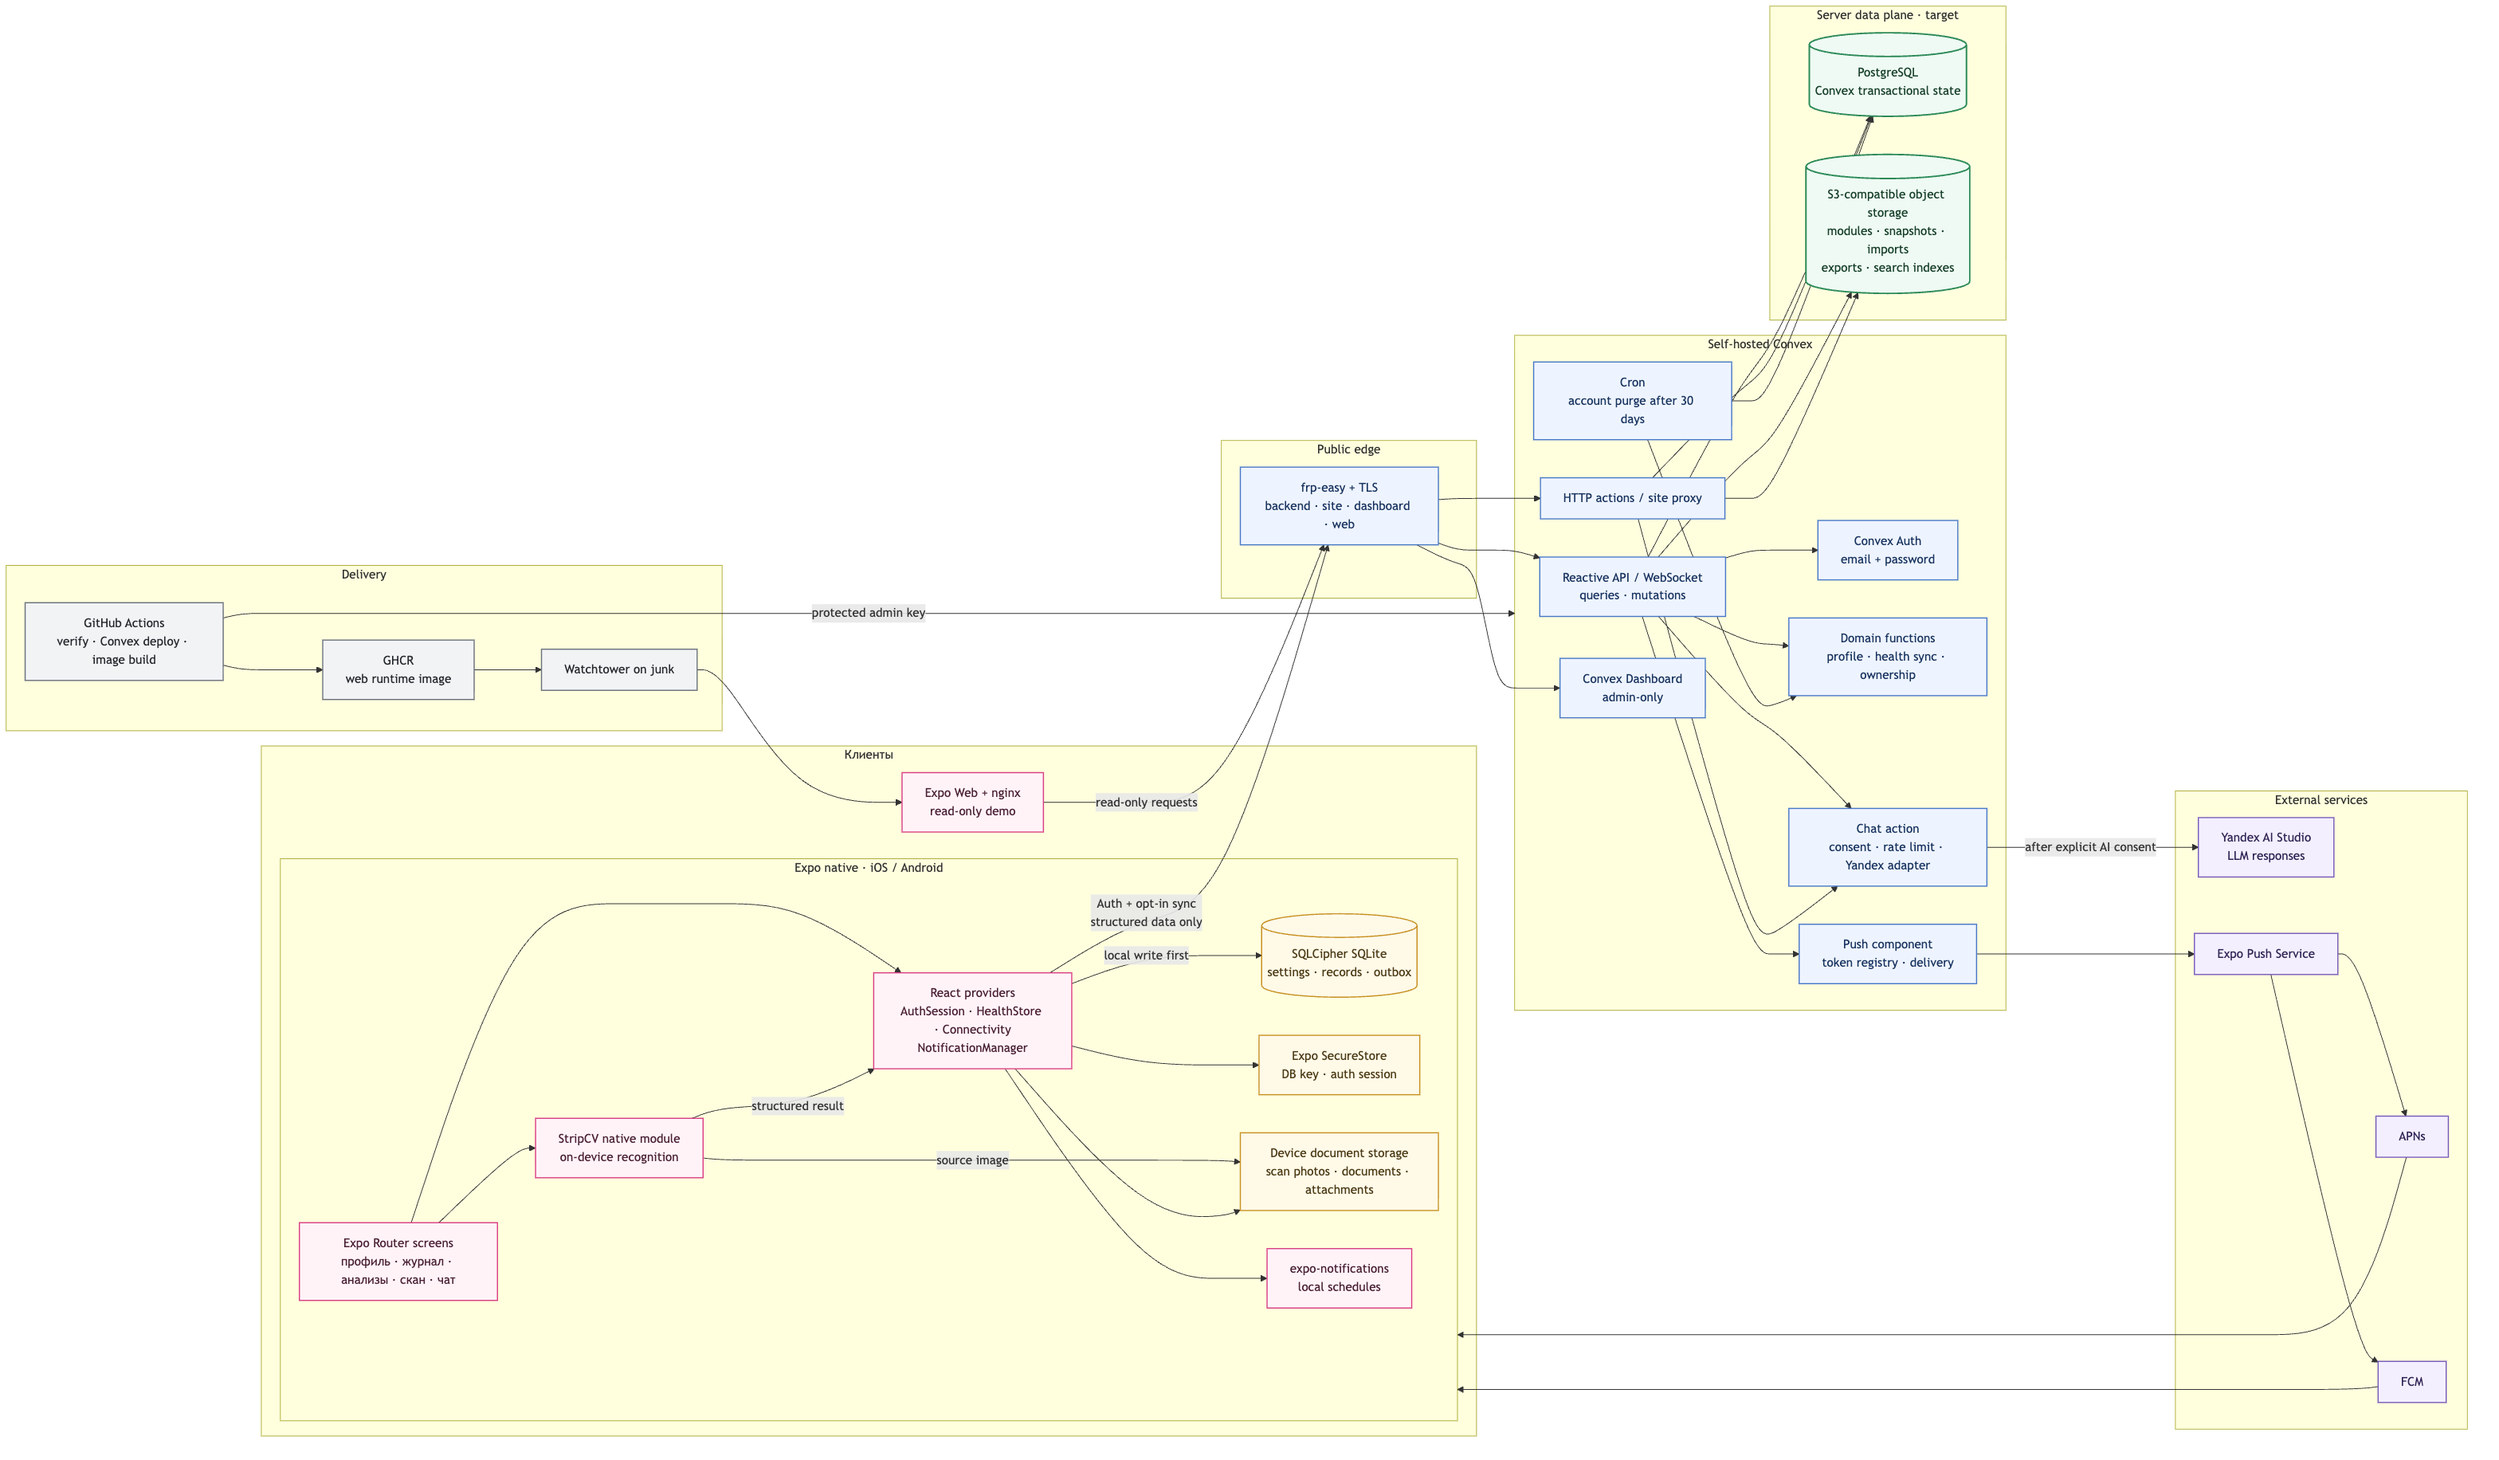
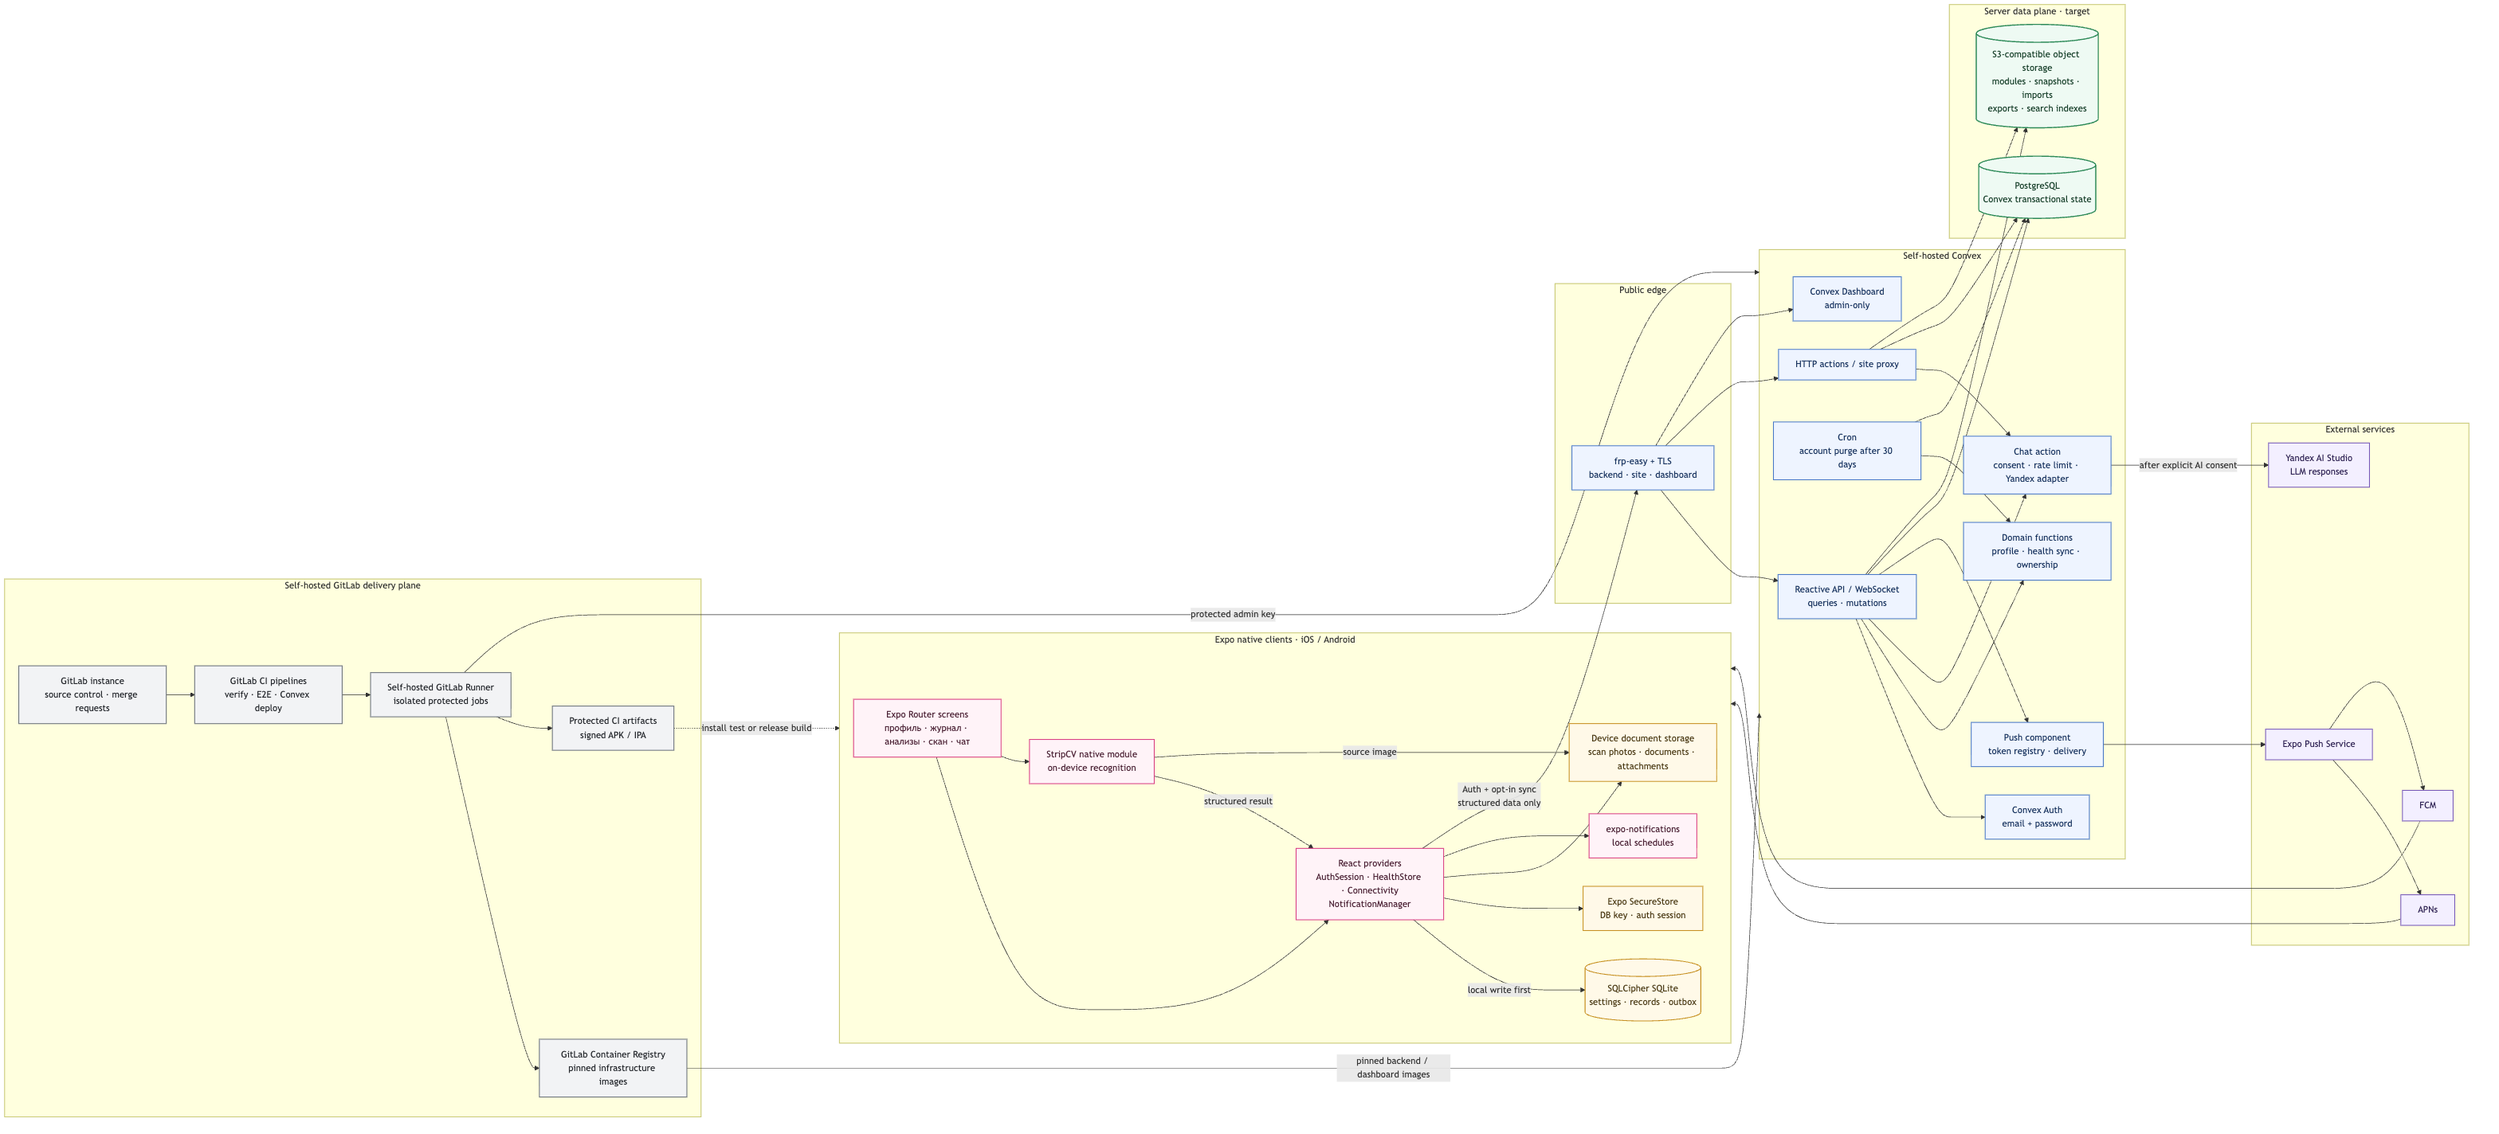
docs: target self-hosted GitLab delivery

diff --git a/docs/architecture/service-architecture.md b/docs/architecture/service-architecture.md
@@ -4,35 +4,32 @@
 но заменяет **серверную** SQLite текущего self-hosted Convex на PostgreSQL.
 S3-compatible storage используется самим Convex для модулей, snapshot/import,
 экспортов и поисковых индексов; медицинские исходники в S3 не загружаются.
+Исходный код, CI/CD, registry и build artifacts размещаются в self-hosted
+GitLab. Web-клиент в целевую схему не входит.
 
 ```mermaid
 flowchart LR
-  subgraph CLIENTS[Клиенты]
-    direction TB
-    subgraph NATIVE[Expo native · iOS / Android]
-      UI[Expo Router screens\nпрофиль · журнал · анализы · скан · чат]
-      PROVIDERS[React providers\nAuthSession · HealthStore · Connectivity\nNotificationManager]
-      LOCAL[(SQLCipher SQLite\nsettings · records · outbox)]
-      SECURE[Expo SecureStore\nDB key · auth session]
-      FILES[Device document storage\nscan photos · documents · attachments]
-      CV[StripCV native module\non-device recognition]
-      LOCAL_PUSH[expo-notifications\nlocal schedules]
+  subgraph NATIVE[Expo native clients · iOS / Android]
+    UI[Expo Router screens\nпрофиль · журнал · анализы · скан · чат]
+    PROVIDERS[React providers\nAuthSession · HealthStore · Connectivity\nNotificationManager]
+    LOCAL[(SQLCipher SQLite\nsettings · records · outbox)]
+    SECURE[Expo SecureStore\nDB key · auth session]
+    FILES[Device document storage\nscan photos · documents · attachments]
+    CV[StripCV native module\non-device recognition]
+    LOCAL_PUSH[expo-notifications\nlocal schedules]
 
-      UI --> PROVIDERS
-      PROVIDERS -->|local write first| LOCAL
-      PROVIDERS --> SECURE
-      UI --> CV
-      CV -->|structured result| PROVIDERS
-      CV -->|source image| FILES
-      PROVIDERS --> FILES
-      PROVIDERS --> LOCAL_PUSH
-    end
-
-    WEB[Expo Web + nginx\nread-only demo]
+    UI --> PROVIDERS
+    PROVIDERS -->|local write first| LOCAL
+    PROVIDERS --> SECURE
+    UI --> CV
+    CV -->|structured result| PROVIDERS
+    CV -->|source image| FILES
+    PROVIDERS --> FILES
+    PROVIDERS --> LOCAL_PUSH
   end
 
   subgraph EDGE[Public edge]
-    TLS[frp-easy + TLS\nbackend · site · dashboard · web]
+    TLS[frp-easy + TLS\nbackend · site · dashboard]
   end
 
   subgraph CONVEX[Self-hosted Convex]
@@ -66,14 +63,20 @@ flowchart LR
     FCM[FCM]
   end
 
-  subgraph DELIVERY[Delivery]
-    CI[GitHub Actions\nverify · Convex deploy · image build]
-    GHCR[GHCR\nweb runtime image]
-    WATCH[Watchtower on junk]
+  subgraph DELIVERY[Self-hosted GitLab delivery plane]
+    GITLAB[GitLab instance\nsource control · merge requests]
+    PIPELINE[GitLab CI pipelines\nverify · E2E · Convex deploy]
+    RUNNER[Self-hosted GitLab Runner\nisolated protected jobs]
+    REGISTRY[GitLab Container Registry\npinned infrastructure images]
+    ARTIFACTS[Protected CI artifacts\nsigned APK / IPA]
+
+    GITLAB --> PIPELINE
+    PIPELINE --> RUNNER
+    RUNNER --> REGISTRY
+    RUNNER --> ARTIFACTS
   end
 
   PROVIDERS -->|Auth + opt-in sync\nstructured data only| TLS
-  WEB -->|read-only requests| TLS
   TLS --> API
   TLS --> HTTP
   TLS --> DASH
@@ -89,10 +92,9 @@ flowchart LR
   APNS --> NATIVE
   FCM --> NATIVE
 
-  CI -->|protected admin key| CONVEX
-  CI --> GHCR
-  GHCR --> WATCH
-  WATCH --> WEB
+  RUNNER -->|protected admin key| CONVEX
+  REGISTRY -->|pinned backend / dashboard images| CONVEX
+  ARTIFACTS -.->|install test or release build| NATIVE
 
   classDef client fill:#fff3f8,stroke:#d93d82,color:#4a2134,stroke-width:1.5px;
   classDef local fill:#fff9e8,stroke:#c79022,color:#4b3b16,stroke-width:1.5px;
@@ -101,12 +103,12 @@ flowchart LR
   classDef external fill:#f3efff,stroke:#7658b8,color:#302454,stroke-width:1.5px;
   classDef delivery fill:#f2f3f5,stroke:#69707a,color:#25282d,stroke-width:1.5px;
 
-  class UI,PROVIDERS,CV,LOCAL_PUSH,WEB client;
+  class UI,PROVIDERS,CV,LOCAL_PUSH client;
   class LOCAL,SECURE,FILES local;
   class TLS,API,HTTP,AUTH,DOMAIN,CHAT,NOTIFY,CRON,DASH backend;
   class PG,S3 data;
   class YANDEX,EXPO_PUSH,APNS,FCM external;
-  class CI,GHCR,WATCH delivery;
+  class GITLAB,PIPELINE,RUNNER,REGISTRY,ARTIFACTS delivery;
 ```
 
 ## Основные взаимодействия
@@ -124,8 +126,10 @@ flowchart LR
 6. Локальные уведомления не требуют сервера. Remote push проходит через
    Convex component → Expo Push Service → APNs/FCM и работает только при наличии
    EAS project ID и provider credentials.
-7. Web-клиент остаётся read-only. GitHub Actions публикует Convex-функции и
-   минимальный nginx image, который забирает Watchtower на `junk`.
+7. Self-hosted GitLab хранит репозиторий и запускает pipelines на собственном
+   GitLab Runner. Protected job публикует Convex-функции, registry хранит
+   закреплённые infrastructure images, а подписанные APK/IPA остаются
+   защищёнными CI artifacts.
 
 ## Текущий и целевой storage
 
